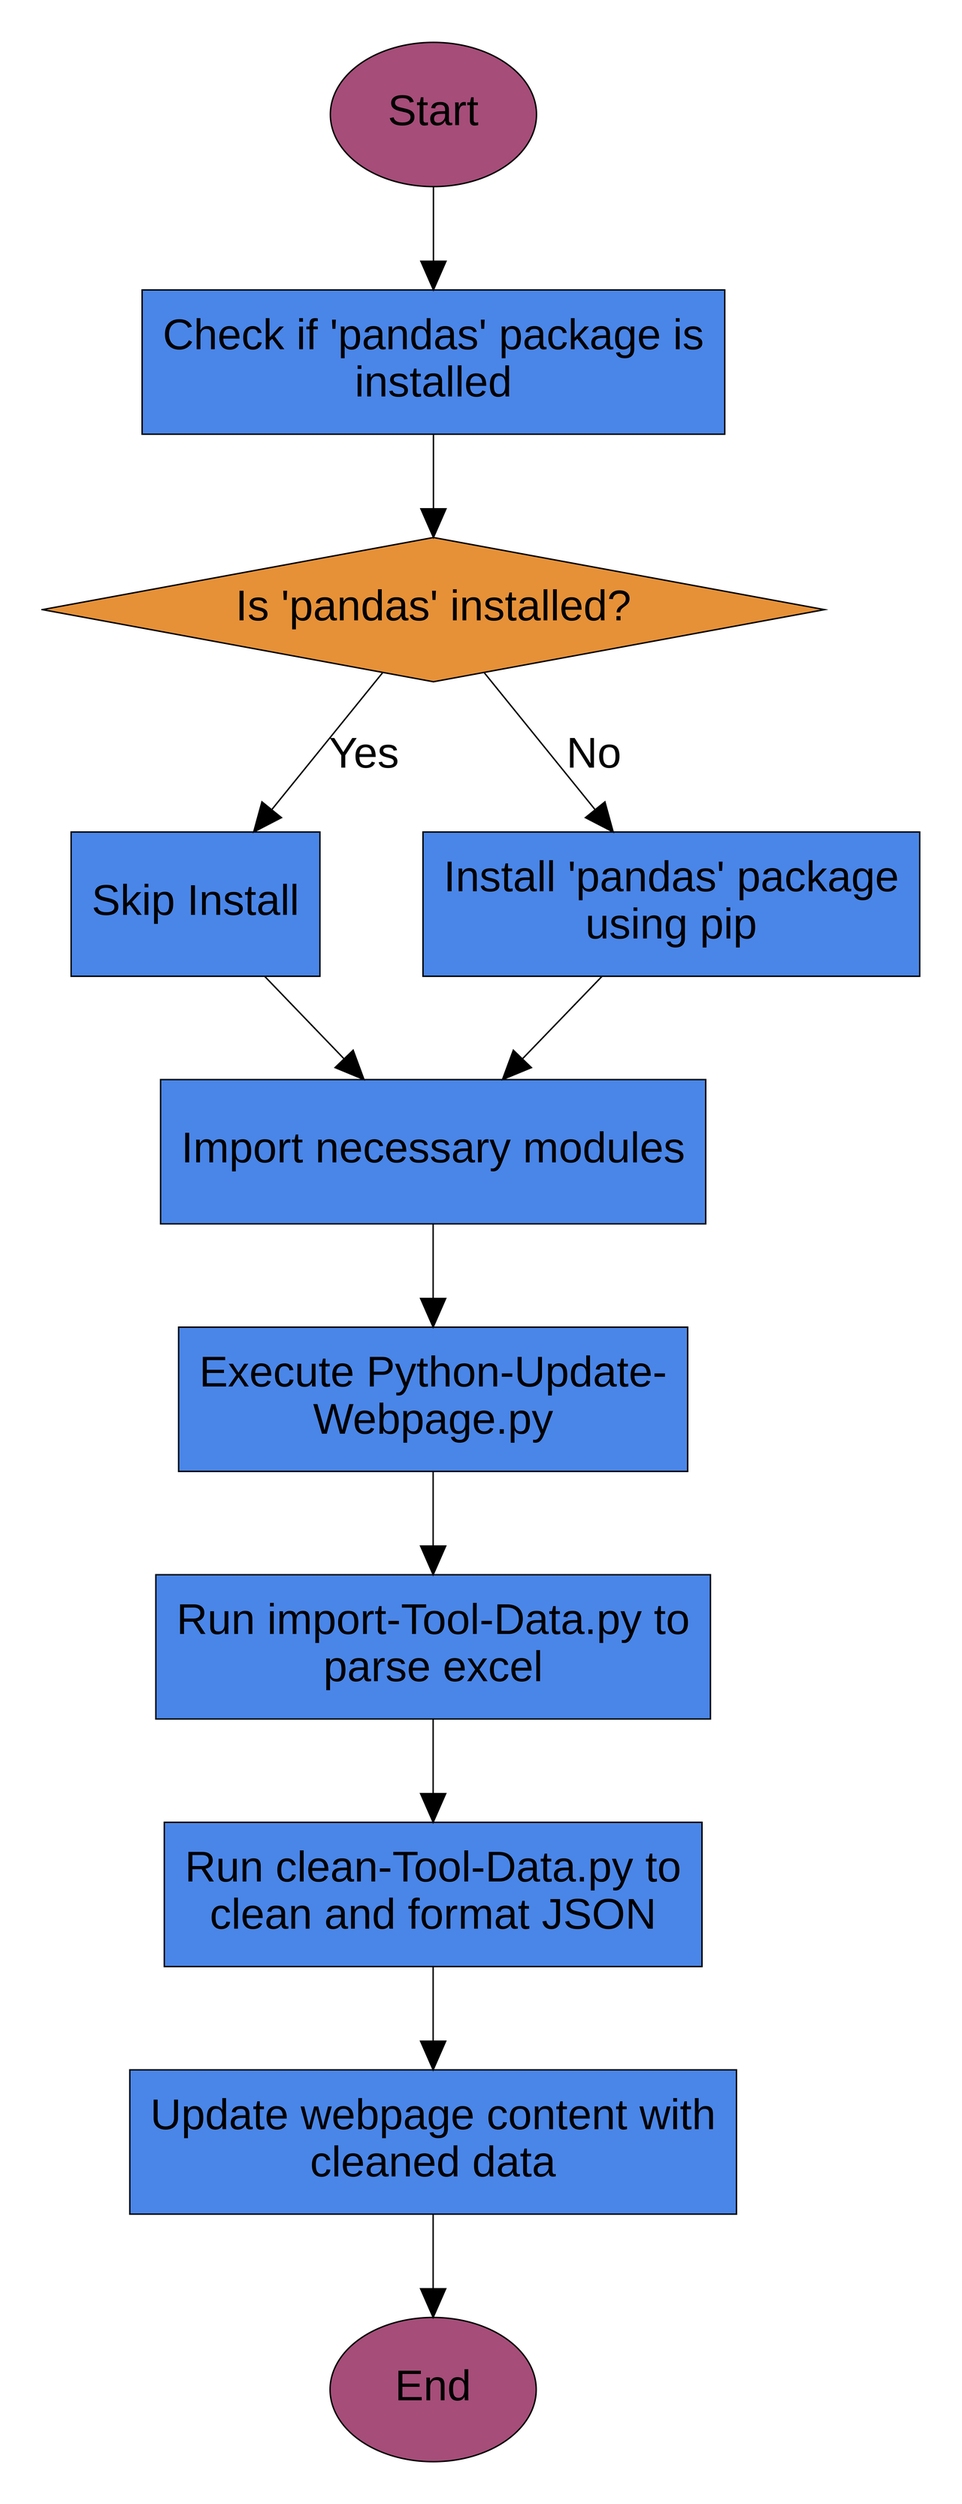
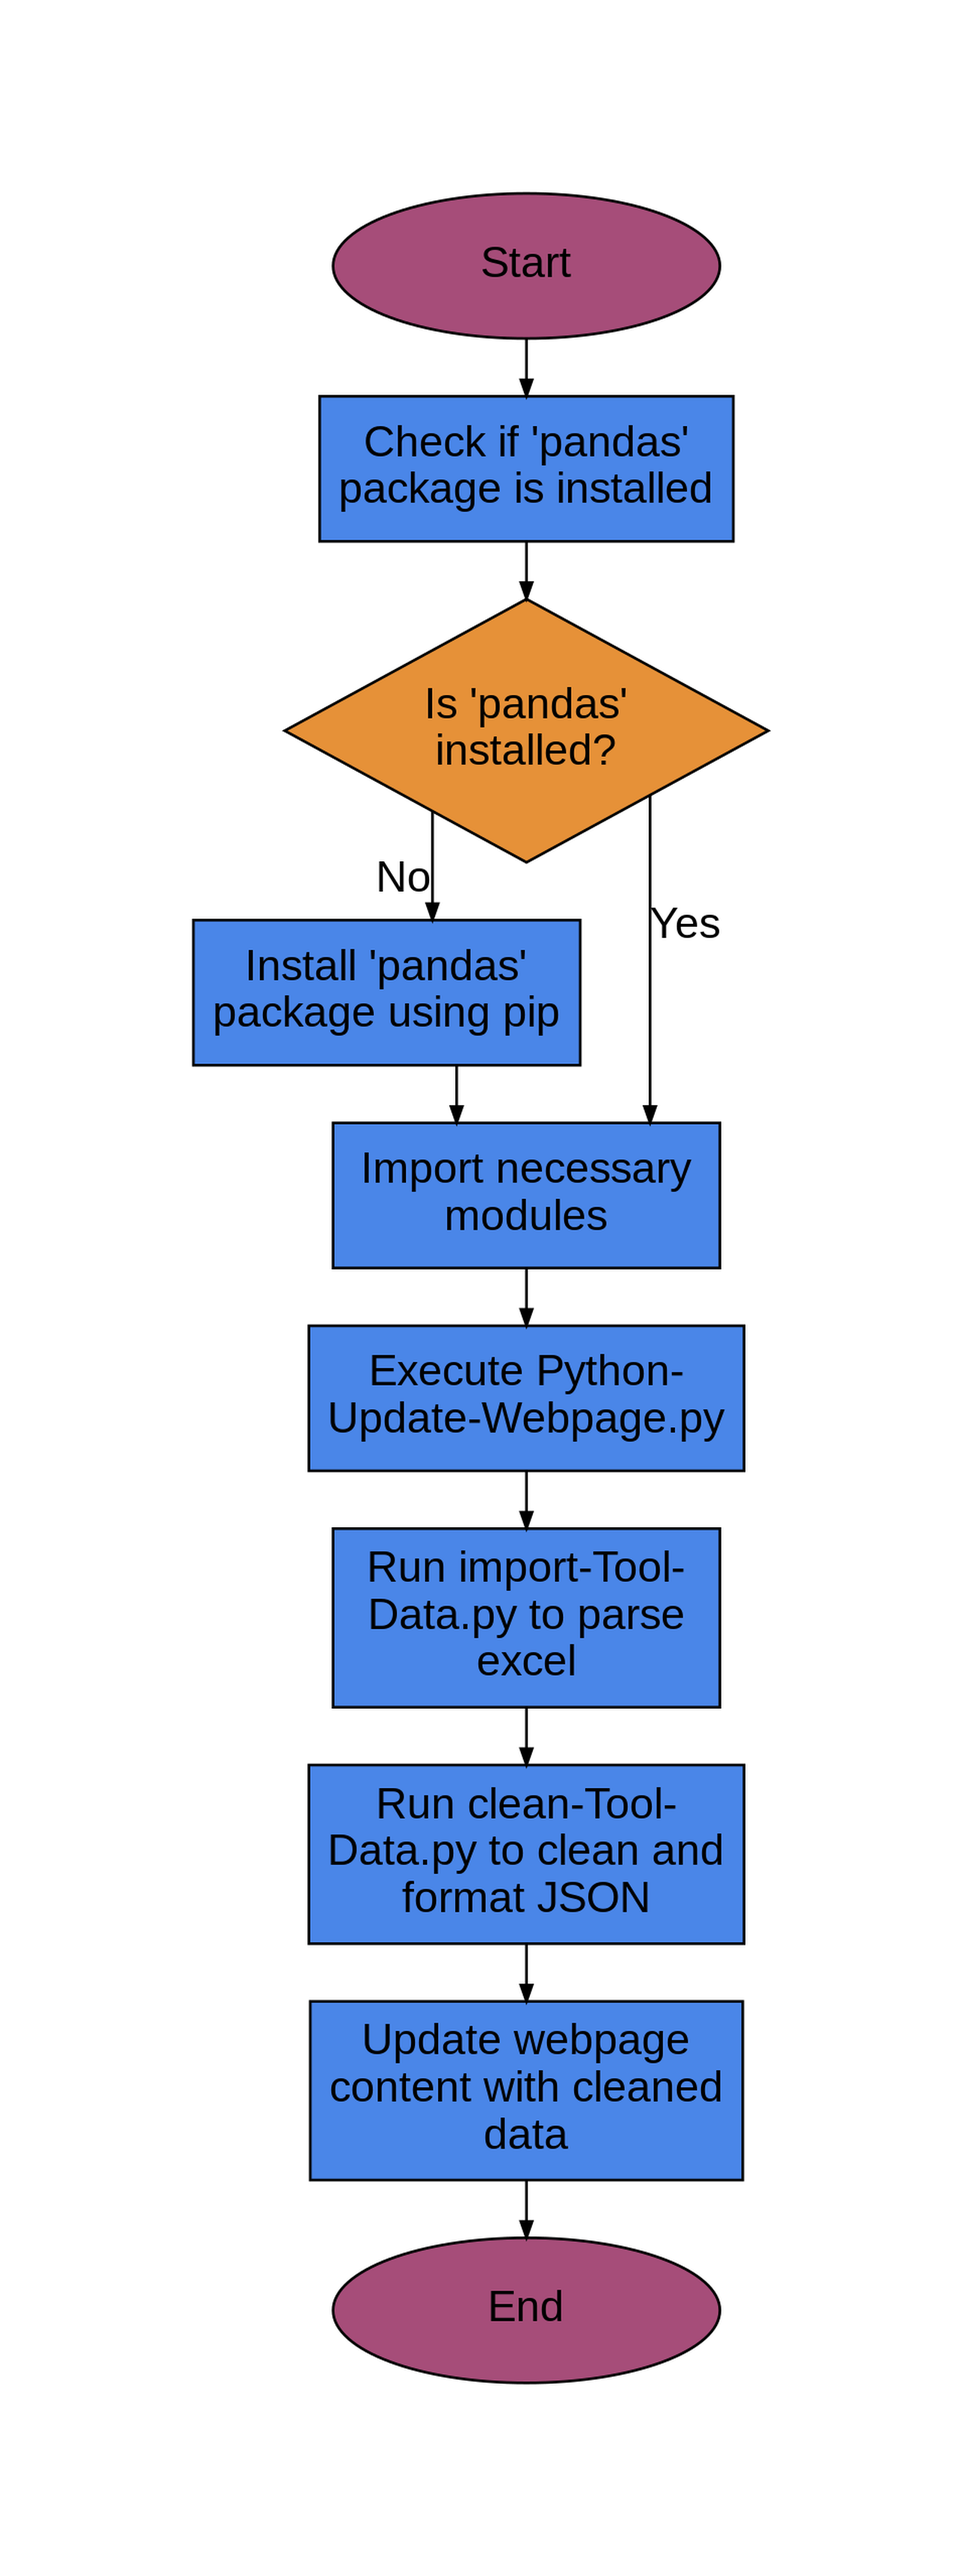
..

diff --git a/Generate-Flowchart.py b/Generate-Flowchart.py
@@ -56,6 +56,7 @@ def apply_class_styles(dot, class_definitions, class_map, node_style):
             style_dict = dict(pair.split(":") for pair in style.split(","))
             dot.node(node_id, _attributes={**node_style, **style_dict})
 
+
 # === MAIN ===
 
 def main():
@@ -124,7 +125,7 @@ def main():
                     else edge_style.get("penwidth", "2.5")
                 )
                 edge_args.update({
-                    "label": label,
+                    "xlabel": label,
                     "fontsize": edge_style.get("fontsize", "40"),
                     "penwidth": edge_style.get("penwidth_alt", "5")
                 })
@@ -139,10 +140,13 @@ def main():
 
         apply_class_styles(dot, classes, class_map, node_style)
         dot.graph_attr.update({
-            "pad": defaults.get("pad", "0.5")
+            "pad": defaults.get("pad", "0.5"),
+            "dpi": defaults.get("dpi", "96"),
+            "splines": defaults.get("splines", "ortho")
         })
         dot.render(paths["png"], cleanup=True)
-        print(f"PNG saved to: {paths['png']}")
+        png_output_path = paths["png"] + ".png"
+        print(f"PNG saved to: {png_output_path}")
 
 if __name__ == "__main__":
     main()
